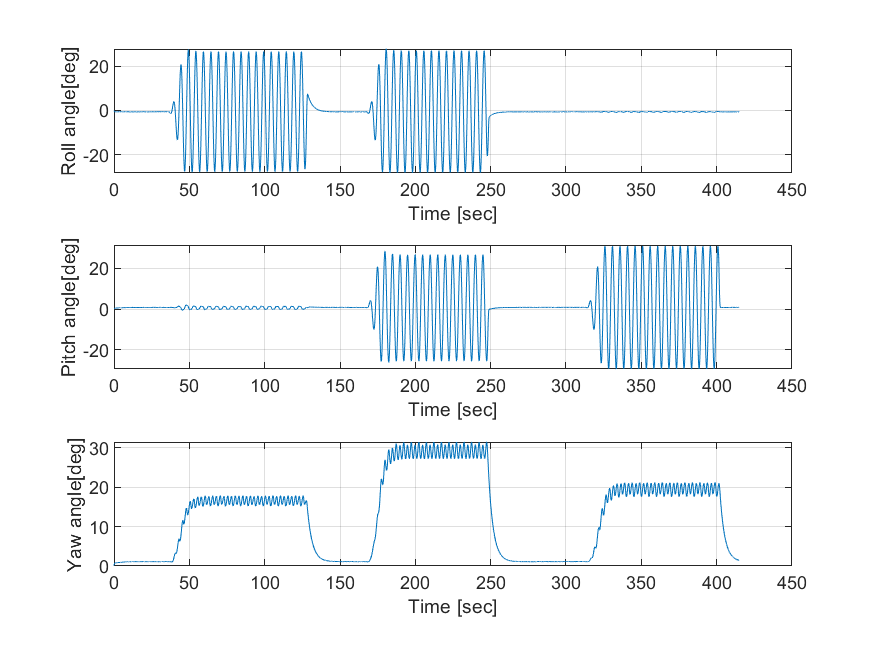
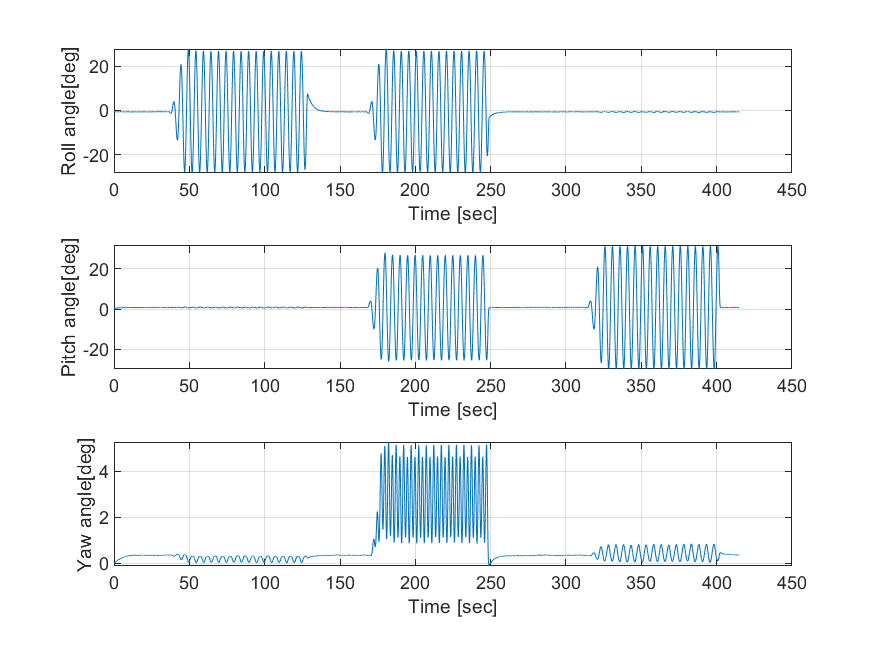
2023-02-06

diff --git a/Matlab/Kalman Filter(Sensor Fusion(Accelerometer, Gyroscope))/TestEulerKalman.m b/Matlab/Kalman Filter(Sensor Fusion(Accelerometer, Gyroscope))/TestEulerKalman.m
@@ -13,8 +13,8 @@ for k=1:Nsamples
                          r, q, -p, 0];
 
     [ax, ay, az] = GetAccel();
-    [phi, theta, psi] = EulerAccel(ax, ay, az);
-    z = EulerToQuaternion(phi, theta, psi);
+    [phi, theta] = EulerAccel(ax, ay, az);
+    z = EulerToQuaternion(phi, theta, 0);
 
     [phi, theta, psi] = EulerKalman(A, z);
 
